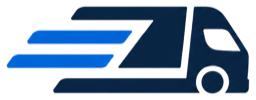
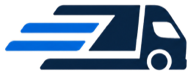
feat: SEO — related articles, FAQ and WebSite markup, redirects, lighter images

diff --git a/blog/kargo-ili-belaya-dostavka/index.html b/blog/kargo-ili-belaya-dostavka/index.html
@@ -129,7 +129,7 @@
       <h2>Коротко</h2>
       <ol><li>Карго и белая доставка различаются оформлением груза. Транспорт и маршрут при этом могут быть одинаковыми.</li><li>При карго груз оформляет перевозчик, и вы не занимаетесь документами.</li><li>При белой доставке товар декларирует сторона сделки с иностранным продавцом, она же вносит таможенные платежи.</li><li>Документы на ввоз нужны для сертификации товара и для вычета НДС, если у вас есть на него право. Их могут попросить и покупатели.</li><li>У FBL Group сроки для обоих форматов одинаковые, поэтому выбирать стоит по документам.</li></ol>
       <p>Чтобы подобрать формат для вашего груза, <a href="/contacts/">оставьте заявку</a>.</p>
-      <p>*Статья носит информационный характер и не является юридической или налоговой консультацией. Порядок оформления и платежи для конкретного товара уточняйте у таможенного брокера и бухгалтера.*</p>
+      <p><em>Статья носит информационный характер и не является юридической или налоговой консультацией. Порядок оформления и платежи для конкретного товара уточняйте у таможенного брокера и бухгалтера.</em></p>
 
       <!-- partial:services -->
 <section class="svc-links" aria-labelledby="svc-links-title">
@@ -142,6 +142,17 @@
         </ul>
       </section>
 <!-- /partial:services -->
+
+<!-- related:start -->
+<section class="svc-links rel-links" aria-labelledby="rel-links-title">
+        <h2 id="rel-links-title">Читайте также</h2>
+        <ul>
+          <li><a href="../sposob-dostavki-iz-kitaya/">Авиа, авто, ж/д или море: как выбрать способ доставки из Китая</a></li>
+          <li><a href="../pochemu-zaderzhivaetsya-gruz-iz-kitaya/">Почему груз из Китая задерживается и как не потерять сроки</a></li>
+          <li><a href="../bayer-posrednik-agent-v-kitae/">Байер, посредник или агент в Китае: чем отличаются и как выбрать</a></li>
+        </ul>
+      </section>
+<!-- related:end -->
 
       <section class="sources" aria-labelledby="sources-title">
         <h2 id="sources-title">Источники</h2>
@@ -226,7 +237,7 @@
   <h3 class="sent__t">Заявка готова</h3>
   <p class="sent__d">Выберите мессенджер и отправьте менеджеру готовый текст заявки.</p>
   <div class="sent__act">
-    <a class="btn btn--primary btn--lg" data-send-wa target="_blank" rel="noopener"><svg aria-hidden="true"><use href="#i-wa"/></svg>Отправить в WhatsApp</a>
+    <a class="btn btn--primary btn--lg" href="https://wa.me/79183083313" data-send-wa target="_blank" rel="noopener"><svg aria-hidden="true"><use href="#i-wa"/></svg>Отправить в WhatsApp</a>
     <button class="btn btn--line btn--lg" type="button" data-send-tg><svg aria-hidden="true"><use href="#i-tg"/></svg>Отправить в Telegram</button>
   </div>
   <div class="sent__copy" data-copy-box hidden>

diff --git a/blog/proizvodstvo-pod-svoim-brendom/index.html b/blog/proizvodstvo-pod-svoim-brendom/index.html
@@ -145,7 +145,7 @@
       <h2>Коротко</h2>
       <ol><li>ODM - готовый товар фабрики под вашим брендом, быстрее и дешевле на старте. OEM - ваш собственный продукт, дольше и дороже.</li><li>Опишите товар подробно: материалы, размеры, логотип, упаковку, объём и срок.</li><li>Утвердите эталонный образец, подпишите и опечатайте его. С ним сравнивают партию.</li><li>Подайте заявку на товарный знак в Китае до запуска производства, в нужных классах и подклассах.</li><li>Подпишите с выбранной фабрикой NNN-соглашение до того, как передадите ей детали продукта.</li></ol>
       <p>Чтобы обсудить производство вашего товара, <a href="/contacts/">оставьте заявку</a>.</p>
-      <p>*Статья носит информационный характер и не является юридической консультацией. Регистрацию товарного знака и договоры с фабрикой обсудите с юристом, который работает с Китаем.*</p>
+      <p><em>Статья носит информационный характер и не является юридической консультацией. Регистрацию товарного знака и договоры с фабрикой обсудите с юристом, который работает с Китаем.</em></p>
 
       <!-- partial:services -->
 <section class="svc-links" aria-labelledby="svc-links-title">
@@ -158,6 +158,17 @@
         </ul>
       </section>
 <!-- /partial:services -->
+
+<!-- related:start -->
+<section class="svc-links rel-links" aria-labelledby="rel-links-title">
+        <h2 id="rel-links-title">Читайте также</h2>
+        <ul>
+          <li><a href="../proverka-kachestva-tovara-v-kitae/">Проверка качества товара в Китае: как устроена инспекция перед отгрузкой</a></li>
+          <li><a href="../bayer-posrednik-agent-v-kitae/">Байер, посредник или агент в Китае: чем отличаются и как выбрать</a></li>
+          <li><a href="../sposob-dostavki-iz-kitaya/">Авиа, авто, ж/д или море: как выбрать способ доставки из Китая</a></li>
+        </ul>
+      </section>
+<!-- related:end -->
 
       <section class="sources" aria-labelledby="sources-title">
         <h2 id="sources-title">Источники</h2>
@@ -243,7 +254,7 @@
   <h3 class="sent__t">Заявка готова</h3>
   <p class="sent__d">Выберите мессенджер и отправьте менеджеру готовый текст заявки.</p>
   <div class="sent__act">
-    <a class="btn btn--primary btn--lg" data-send-wa target="_blank" rel="noopener"><svg aria-hidden="true"><use href="#i-wa"/></svg>Отправить в WhatsApp</a>
+    <a class="btn btn--primary btn--lg" href="https://wa.me/79183083313" data-send-wa target="_blank" rel="noopener"><svg aria-hidden="true"><use href="#i-wa"/></svg>Отправить в WhatsApp</a>
     <button class="btn btn--line btn--lg" type="button" data-send-tg><svg aria-hidden="true"><use href="#i-tg"/></svg>Отправить в Telegram</button>
   </div>
   <div class="sent__copy" data-copy-box hidden>

diff --git a/blog/proverka-kachestva-tovara-v-kitae/index.html b/blog/proverka-kachestva-tovara-v-kitae/index.html
@@ -139,7 +139,7 @@
       <h2>Короткий чек-лист</h2>
       <ol><li>Утвердить образец до запуска производства.</li><li>Записать в контракт уровень контроля и AQL для каждого класса дефектов.</li><li>Составить список дефектов: критические, значительные, малозначительные.</li><li>Для больших заказов добавить проверку во время производства.</li><li>Назначить проверку перед отгрузкой, когда партия готова и упакована, с запасом времени на переборку.</li><li>Проверить маркировку и упаковку вместе с товаром.</li><li>Не отгружать партию, которая не прошла проверку, до повторной проверки.</li></ol>
       <p>Чтобы проверить вашу партию до отгрузки, <a href="/contacts/">оставьте заявку</a>.</p>
-      <p>*Статья носит информационный характер и не является юридической консультацией. Требования к приёмке вашей партии определяет ваш контракт с поставщиком.*</p>
+      <p><em>Статья носит информационный характер и не является юридической консультацией. Требования к приёмке вашей партии определяет ваш контракт с поставщиком.</em></p>
 
       <!-- partial:services -->
 <section class="svc-links" aria-labelledby="svc-links-title">
@@ -152,6 +152,17 @@
         </ul>
       </section>
 <!-- /partial:services -->
+
+<!-- related:start -->
+<section class="svc-links rel-links" aria-labelledby="rel-links-title">
+        <h2 id="rel-links-title">Читайте также</h2>
+        <ul>
+          <li><a href="../proizvodstvo-pod-svoim-brendom/">Производство в Китае под своим брендом: ODM или OEM, образец и защита бренда</a></li>
+          <li><a href="../bayer-posrednik-agent-v-kitae/">Байер, посредник или агент в Китае: чем отличаются и как выбрать</a></li>
+          <li><a href="../pochemu-zaderzhivaetsya-gruz-iz-kitaya/">Почему груз из Китая задерживается и как не потерять сроки</a></li>
+        </ul>
+      </section>
+<!-- related:end -->
 
       <section class="sources" aria-labelledby="sources-title">
         <h2 id="sources-title">Источники</h2>
@@ -236,7 +247,7 @@
   <h3 class="sent__t">Заявка готова</h3>
   <p class="sent__d">Выберите мессенджер и отправьте менеджеру готовый текст заявки.</p>
   <div class="sent__act">
-    <a class="btn btn--primary btn--lg" data-send-wa target="_blank" rel="noopener"><svg aria-hidden="true"><use href="#i-wa"/></svg>Отправить в WhatsApp</a>
+    <a class="btn btn--primary btn--lg" href="https://wa.me/79183083313" data-send-wa target="_blank" rel="noopener"><svg aria-hidden="true"><use href="#i-wa"/></svg>Отправить в WhatsApp</a>
     <button class="btn btn--line btn--lg" type="button" data-send-tg><svg aria-hidden="true"><use href="#i-tg"/></svg>Отправить в Telegram</button>
   </div>
   <div class="sent__copy" data-copy-box hidden>

diff --git a/blog/bayer-posrednik-agent-v-kitae/index.html b/blog/bayer-posrednik-agent-v-kitae/index.html
@@ -132,7 +132,7 @@
       <h2>Коротко</h2>
       <ol><li>Байер - разговорное слово. Смотрите на модель: агент на комиссии, торговая компания или сервисный агент.</li><li>Спросите, как и кто платит посреднику, и не берёт ли он деньги у фабрики.</li><li>Узнайте, на чьё имя контракт с фабрикой и по какому праву он заключён, и запишите это в договор с посредником.</li><li>Партия меньше минимального заказа фабрики - это к торговой компании; если впереди крупные заказы - к сервисному агенту.</li><li>Если нужны ещё склад, упаковка и доставка, выбирайте агента полного цикла.</li></ol>
       <p>Чтобы обсудить закупку, контроль и доставку вашего товара, <a href="/contacts/">оставьте заявку</a>.</p>
-      <p>*Статья носит информационный характер и не является юридической консультацией. Условия работы с посредником определяет ваш договор с ним.*</p>
+      <p><em>Статья носит информационный характер и не является юридической консультацией. Условия работы с посредником определяет ваш договор с ним.</em></p>
 
       <!-- partial:services -->
 <section class="svc-links" aria-labelledby="svc-links-title">
@@ -145,6 +145,17 @@
         </ul>
       </section>
 <!-- /partial:services -->
+
+<!-- related:start -->
+<section class="svc-links rel-links" aria-labelledby="rel-links-title">
+        <h2 id="rel-links-title">Читайте также</h2>
+        <ul>
+          <li><a href="../proizvodstvo-pod-svoim-brendom/">Производство в Китае под своим брендом: ODM или OEM, образец и защита бренда</a></li>
+          <li><a href="../proverka-kachestva-tovara-v-kitae/">Проверка качества товара в Китае: как устроена инспекция перед отгрузкой</a></li>
+          <li><a href="../kargo-ili-belaya-dostavka/">Карго или белая доставка из Китая: в чём разница и как выбрать</a></li>
+        </ul>
+      </section>
+<!-- related:end -->
 
       <section class="sources" aria-labelledby="sources-title">
         <h2 id="sources-title">Источники</h2>
@@ -230,7 +241,7 @@
   <h3 class="sent__t">Заявка готова</h3>
   <p class="sent__d">Выберите мессенджер и отправьте менеджеру готовый текст заявки.</p>
   <div class="sent__act">
-    <a class="btn btn--primary btn--lg" data-send-wa target="_blank" rel="noopener"><svg aria-hidden="true"><use href="#i-wa"/></svg>Отправить в WhatsApp</a>
+    <a class="btn btn--primary btn--lg" href="https://wa.me/79183083313" data-send-wa target="_blank" rel="noopener"><svg aria-hidden="true"><use href="#i-wa"/></svg>Отправить в WhatsApp</a>
     <button class="btn btn--line btn--lg" type="button" data-send-tg><svg aria-hidden="true"><use href="#i-tg"/></svg>Отправить в Telegram</button>
   </div>
   <div class="sent__copy" data-copy-box hidden>

diff --git a/blog/sposob-dostavki-iz-kitaya/index.html b/blog/sposob-dostavki-iz-kitaya/index.html
@@ -138,7 +138,7 @@
       <h2>Коротко</h2>
       <ol><li>Способ выбирают по сроку, весу и объёму, типу товара и направлению.</li><li>Обычно авиа быстрее и дороже всех, море дешевле на больших объёмах и дольше, а по цене железная дорога посередине.</li><li>В авиа платят за большее из фактического и объёмного веса: длина × ширина × высота в сантиметрах, делённые на 6000.</li><li>Сборный морской груз считают по большему из кубометров и тонн.</li><li>Об аккумуляторах в товаре скажите до расчёта.</li></ol>
       <p>Чтобы рассчитать доставку вашего груза, <a href="/contacts/">оставьте заявку</a>.</p>
-      <p>*Статья носит информационный характер и не является юридической консультацией. Сроки и стоимость конкретной перевозки зависят от груза, маршрута и правил перевозчика.*</p>
+      <p><em>Статья носит информационный характер и не является юридической консультацией. Сроки и стоимость конкретной перевозки зависят от груза, маршрута и правил перевозчика.</em></p>
 
       <!-- partial:services -->
 <section class="svc-links" aria-labelledby="svc-links-title">
@@ -151,6 +151,17 @@
         </ul>
       </section>
 <!-- /partial:services -->
+
+<!-- related:start -->
+<section class="svc-links rel-links" aria-labelledby="rel-links-title">
+        <h2 id="rel-links-title">Читайте также</h2>
+        <ul>
+          <li><a href="../kargo-ili-belaya-dostavka/">Карго или белая доставка из Китая: в чём разница и как выбрать</a></li>
+          <li><a href="../pochemu-zaderzhivaetsya-gruz-iz-kitaya/">Почему груз из Китая задерживается и как не потерять сроки</a></li>
+          <li><a href="../proverka-kachestva-tovara-v-kitae/">Проверка качества товара в Китае: как устроена инспекция перед отгрузкой</a></li>
+        </ul>
+      </section>
+<!-- related:end -->
 
       <section class="sources" aria-labelledby="sources-title">
         <h2 id="sources-title">Источники</h2>
@@ -234,7 +245,7 @@
   <h3 class="sent__t">Заявка готова</h3>
   <p class="sent__d">Выберите мессенджер и отправьте менеджеру готовый текст заявки.</p>
   <div class="sent__act">
-    <a class="btn btn--primary btn--lg" data-send-wa target="_blank" rel="noopener"><svg aria-hidden="true"><use href="#i-wa"/></svg>Отправить в WhatsApp</a>
+    <a class="btn btn--primary btn--lg" href="https://wa.me/79183083313" data-send-wa target="_blank" rel="noopener"><svg aria-hidden="true"><use href="#i-wa"/></svg>Отправить в WhatsApp</a>
     <button class="btn btn--line btn--lg" type="button" data-send-tg><svg aria-hidden="true"><use href="#i-tg"/></svg>Отправить в Telegram</button>
   </div>
   <div class="sent__copy" data-copy-box hidden>

diff --git a/zakupka-v-kitae/index.html b/zakupka-v-kitae/index.html
@@ -27,6 +27,7 @@
 <link rel="preload" href="../assets/fonts/geologica-cyrillic-wght-normal.woff2" as="font" type="font/woff2" crossorigin>
 <link rel="preload" href="../assets/fonts/golos-text-cyrillic-wght-normal.woff2" as="font" type="font/woff2" crossorigin>
 <link rel="stylesheet" href="../css/main.css?v=20261121b">
+<script type="application/ld+json" data-schema="faq">{"@context":"https://schema.org","@type":"FAQPage","mainEntity":[{"@type":"Question","name":"С чем можно прийти?","acceptedAnswer":{"@type":"Answer","text":"С фотографией товара, образцом, ссылкой, техническим заданием, идеей или приблизительными характеристиками."}},{"@type":"Question","name":"Какие товары вы ищете?","acceptedAnswer":{"@type":"Answer","text":"Мы не ограничены одной категорией: потребительские товары, оборудование, продукция для бизнеса, товары под ваш бренд. Примеры есть в каталогах."}},{"@type":"Question","name":"Для кого эта услуга?","acceptedAnswer":{"@type":"Answer","text":"Для продавцов маркетплейсов, оптовиков и магазинов, владельцев брендов и компаний, которые закупают для своего бизнеса."}},{"@type":"Question","name":"А если готового товара нет?","acceptedAnswer":{"@type":"Answer","text":"Организуем производство по образцу, фото или ТЗ, в том числе под ваш бренд."}},{"@type":"Question","name":"Куда отправляете?","acceptedAnswer":{"@type":"Answer","text":"Россия, Казахстан, Кыргызстан, Узбекистан, Европа, США, Канада, Саудовская Аравия, Индонезия. Список не закрытый."}},{"@type":"Question","name":"Можно только склад и упаковку?","acceptedAnswer":{"@type":"Answer","text":"Да. Если поставщик у вас уже есть, подойдёт Fulfillment в Китае."}}]}</script>
 </head>
 <body data-page="zakupka">
 
@@ -245,7 +246,7 @@
   <h3 class="sent__t">Заявка готова</h3>
   <p class="sent__d">Выберите мессенджер и отправьте менеджеру готовый текст заявки.</p>
   <div class="sent__act">
-    <a class="btn btn--primary btn--lg" data-send-wa target="_blank" rel="noopener"><svg aria-hidden="true"><use href="#i-wa"/></svg>Отправить в WhatsApp</a>
+    <a class="btn btn--primary btn--lg" href="https://wa.me/79183083313" data-send-wa target="_blank" rel="noopener"><svg aria-hidden="true"><use href="#i-wa"/></svg>Отправить в WhatsApp</a>
     <button class="btn btn--line btn--lg" type="button" data-send-tg><svg aria-hidden="true"><use href="#i-tg"/></svg>Отправить в Telegram</button>
   </div>
   <div class="sent__copy" data-copy-box hidden>

diff --git a/proizvodstvo-v-kitae/index.html b/proizvodstvo-v-kitae/index.html
@@ -27,6 +27,7 @@
 <link rel="preload" href="../assets/fonts/geologica-cyrillic-wght-normal.woff2" as="font" type="font/woff2" crossorigin>
 <link rel="preload" href="../assets/fonts/golos-text-cyrillic-wght-normal.woff2" as="font" type="font/woff2" crossorigin>
 <link rel="stylesheet" href="../css/main.css?v=20261121b">
+<script type="application/ld+json" data-schema="faq">{"@context":"https://schema.org","@type":"FAQPage","mainEntity":[{"@type":"Question","name":"Какие товары можно произвести?","acceptedAnswer":{"@type":"Answer","text":"Мы не ограничены одной категорией. Например, есть опыт производства одежды: футболки, худи, куртки, пуховики, носки."}},{"@type":"Question","name":"Можно с моим логотипом?","acceptedAnswer":{"@type":"Answer","text":"Да, производим продукцию под бренд клиента."}},{"@type":"Question","name":"Что если нужен товар лучше образца?","acceptedAnswer":{"@type":"Answer","text":"Материал, плотность, конструкцию и упаковку можно изменить. Себестоимость при этом обсуждаем открыто."}},{"@type":"Question","name":"Кто проверяет качество?","acceptedAnswer":{"@type":"Answer","text":"Контролируем производство и проверяем готовый товар до отправки. Как устроена проверка, описано в статье о проверке качества."}},{"@type":"Question","name":"Если товар уже где-то продаётся?","acceptedAnswer":{"@type":"Answer","text":"Тогда быстрее найти и выкупить готовый: смотрите закупку в Китае."}},{"@type":"Question","name":"Упакуете под маркетплейс?","acceptedAnswer":{"@type":"Answer","text":"Да, маркировка, упаковка и комплектация входят в Fulfillment."}}]}</script>
 </head>
 <body data-page="proizvodstvo">
 
@@ -244,7 +245,7 @@
   <h3 class="sent__t">Заявка готова</h3>
   <p class="sent__d">Выберите мессенджер и отправьте менеджеру готовый текст заявки.</p>
   <div class="sent__act">
-    <a class="btn btn--primary btn--lg" data-send-wa target="_blank" rel="noopener"><svg aria-hidden="true"><use href="#i-wa"/></svg>Отправить в WhatsApp</a>
+    <a class="btn btn--primary btn--lg" href="https://wa.me/79183083313" data-send-wa target="_blank" rel="noopener"><svg aria-hidden="true"><use href="#i-wa"/></svg>Отправить в WhatsApp</a>
     <button class="btn btn--line btn--lg" type="button" data-send-tg><svg aria-hidden="true"><use href="#i-tg"/></svg>Отправить в Telegram</button>
   </div>
   <div class="sent__copy" data-copy-box hidden>

diff --git a/dostavka-iz-kitaya/index.html b/dostavka-iz-kitaya/index.html
@@ -27,6 +27,7 @@
 <link rel="preload" href="../assets/fonts/geologica-cyrillic-wght-normal.woff2" as="font" type="font/woff2" crossorigin>
 <link rel="preload" href="../assets/fonts/golos-text-cyrillic-wght-normal.woff2" as="font" type="font/woff2" crossorigin>
 <link rel="stylesheet" href="../css/main.css?v=20261121b">
+<script type="application/ld+json" data-schema="faq">{"@context":"https://schema.org","@type":"FAQPage","mainEntity":[{"@type":"Question","name":"Куда доставляете?","acceptedAnswer":{"@type":"Answer","text":"Россия, Казахстан, Кыргызстан, Узбекистан, Европа, США, Канада, Саудовская Аравия, Индонезия. Список не закрытый."}},{"@type":"Question","name":"Сколько стоит доставка?","acceptedAnswer":{"@type":"Answer","text":"Зависит от веса, объёма, товара, маршрута и формата. Пришлите данные груза в заявке, и мы рассчитаем."}},{"@type":"Question","name":"Можно доставить товар моего поставщика?","acceptedAnswer":{"@type":"Answer","text":"Да. Поставщик отправляет товар на наш склад, дальше мы готовим и отправляем груз. Подробнее в разделе Fulfillment."}},{"@type":"Question","name":"Как отследить груз?","acceptedAnswer":{"@type":"Answer","text":"Введите номер груза на странице отслеживания."}},{"@type":"Question","name":"А если товар ещё не куплен?","acceptedAnswer":{"@type":"Answer","text":"Найдём и выкупим его: смотрите закупку в Китае."}},{"@type":"Question","name":"Проверите товар до отправки?","acceptedAnswer":{"@type":"Answer","text":"Да, на складе или выездом к поставщику: проверка качества."}}]}</script>
 </head>
 <body data-page="dostavka">
 
@@ -273,7 +274,7 @@
   <h3 class="sent__t">Заявка готова</h3>
   <p class="sent__d">Выберите мессенджер и отправьте менеджеру готовый текст заявки.</p>
   <div class="sent__act">
-    <a class="btn btn--primary btn--lg" data-send-wa target="_blank" rel="noopener"><svg aria-hidden="true"><use href="#i-wa"/></svg>Отправить в WhatsApp</a>
+    <a class="btn btn--primary btn--lg" href="https://wa.me/79183083313" data-send-wa target="_blank" rel="noopener"><svg aria-hidden="true"><use href="#i-wa"/></svg>Отправить в WhatsApp</a>
     <button class="btn btn--line btn--lg" type="button" data-send-tg><svg aria-hidden="true"><use href="#i-tg"/></svg>Отправить в Telegram</button>
   </div>
   <div class="sent__copy" data-copy-box hidden>

diff --git a/en/blog/cargo-vs-customs-clearance-china/index.html b/en/blog/cargo-vs-customs-clearance-china/index.html
@@ -127,7 +127,7 @@
       <h2>In short</h2>
       <ol><li>Cargo and full clearance differ in how the goods are cleared. The transport and route can be the same.</li><li>With cargo, the carrier clears the goods and you do not handle the paperwork.</li><li>With full clearance, a party to the deal with the foreign seller declares the goods and pays the customs charges.</li><li>You need import documents for product certification and for a VAT deduction, if you are entitled to one. Buyers may also ask for them.</li><li>At FBL Group transit times are the same for both formats, so choose based on documents.</li></ol>
       <p>To choose a format for your shipment, <a href="/en/contacts/">send us a request</a>.</p>
-      <p>*This article is for general information and is not legal or tax advice. It covers imports into Russia; check the formalities and payments for your product with a customs broker and an accountant.*</p>
+      <p><em>This article is for general information and is not legal or tax advice. It covers imports into Russia; check the formalities and payments for your product with a customs broker and an accountant.</em></p>
 
       <!-- partial:services -->
 <section class="svc-links" aria-labelledby="svc-links-title">
@@ -140,6 +140,17 @@
         </ul>
       </section>
 <!-- /partial:services -->
+
+<!-- related:start -->
+<section class="svc-links rel-links" aria-labelledby="rel-links-title">
+        <h2 id="rel-links-title">Read next</h2>
+        <ul>
+          <li><a href="../best-shipping-method-from-china/">Air, Road, Rail or Sea: How to Choose a Shipping Method from China</a></li>
+          <li><a href="../why-china-shipments-get-delayed/">Why shipments from China get delayed and how to protect your deadlines</a></li>
+          <li><a href="../china-sourcing-agent-vs-buyer/">Sourcing Agent, Buyer or Trading Company in China: Differences and How to Choose</a></li>
+        </ul>
+      </section>
+<!-- related:end -->
 
       <section class="sources" aria-labelledby="sources-title">
         <h2 id="sources-title">Sources</h2>
@@ -225,7 +236,7 @@
   <h3 class="sent__t">Your request is ready</h3>
   <p class="sent__d">Choose a messenger and send the prepared text to our manager.</p>
   <div class="sent__act">
-    <a class="btn btn--primary btn--lg" data-send-wa target="_blank" rel="noopener"><svg aria-hidden="true"><use href="#i-wa"/></svg>Send via WhatsApp</a>
+    <a class="btn btn--primary btn--lg" href="https://wa.me/79183083313" data-send-wa target="_blank" rel="noopener"><svg aria-hidden="true"><use href="#i-wa"/></svg>Send via WhatsApp</a>
     <button class="btn btn--line btn--lg" type="button" data-send-tg><svg aria-hidden="true"><use href="#i-tg"/></svg>Send via Telegram</button>
   </div>
   <div class="sent__copy" data-copy-box hidden>

diff --git a/inspekciya-tovara-v-kitae/index.html b/inspekciya-tovara-v-kitae/index.html
@@ -27,6 +27,7 @@
 <link rel="preload" href="../assets/fonts/geologica-cyrillic-wght-normal.woff2" as="font" type="font/woff2" crossorigin>
 <link rel="preload" href="../assets/fonts/golos-text-cyrillic-wght-normal.woff2" as="font" type="font/woff2" crossorigin>
 <link rel="stylesheet" href="../css/main.css?v=20261121b">
+<script type="application/ld+json" data-schema="faq">{"@context":"https://schema.org","@type":"FAQPage","mainEntity":[{"@type":"Question","name":"Вы выезжаете на фабрику?","acceptedAnswer":{"@type":"Answer","text":"Да, делаем выездные проверки у поставщика и на фабрике, а не только на нашем складе."}},{"@type":"Question","name":"Что будет в отчёте?","acceptedAnswer":{"@type":"Answer","text":"Информация о количестве и качестве товара, фото и видео."}},{"@type":"Question","name":"Зачем проверять до отправки?","acceptedAnswer":{"@type":"Answer","text":"В Китае проблему с партией можно решить с поставщиком. После получения это сложнее."}},{"@type":"Question","name":"Можно проверку и доставку вместе?","acceptedAnswer":{"@type":"Answer","text":"Да. После проверки подготовим и отправим груз: доставка из Китая."}},{"@type":"Question","name":"А если товар делают под заказ?","acceptedAnswer":{"@type":"Answer","text":"Контролируем и производство: производство в Китае."}},{"@type":"Question","name":"Нужны маркировка и упаковка?","acceptedAnswer":{"@type":"Answer","text":"Это входит в Fulfillment."}}]}</script>
 </head>
 <body data-page="inspekciya">
 
@@ -237,7 +238,7 @@
   <h3 class="sent__t">Заявка готова</h3>
   <p class="sent__d">Выберите мессенджер и отправьте менеджеру готовый текст заявки.</p>
   <div class="sent__act">
-    <a class="btn btn--primary btn--lg" data-send-wa target="_blank" rel="noopener"><svg aria-hidden="true"><use href="#i-wa"/></svg>Отправить в WhatsApp</a>
+    <a class="btn btn--primary btn--lg" href="https://wa.me/79183083313" data-send-wa target="_blank" rel="noopener"><svg aria-hidden="true"><use href="#i-wa"/></svg>Отправить в WhatsApp</a>
     <button class="btn btn--line btn--lg" type="button" data-send-tg><svg aria-hidden="true"><use href="#i-tg"/></svg>Отправить в Telegram</button>
   </div>
   <div class="sent__copy" data-copy-box hidden>

diff --git a/en/blog/china-sourcing-agent-vs-buyer/index.html b/en/blog/china-sourcing-agent-vs-buyer/index.html
@@ -129,7 +129,7 @@
       <h2>In short</h2>
       <ol><li>"Buyer" is a loose label. Look at the model: commission agent, trading company or service agent.</li><li>Ask how the intermediary gets paid and by whom, and whether they take money from the factory.</li><li>Find out whose name the factory contract is in and which law governs it, and write it into your agreement.</li><li>An order below the factory's MOQ points to a trading company; if you expect large orders, look at a service agent.</li><li>If you also need warehousing, packing and shipping, choose a full-cycle agent.</li></ol>
       <p>To discuss purchasing, quality control and shipping for your product, <a href="/en/contacts/">send us a request</a>.</p>
-      <p>*This article is for information only and is not legal advice. The terms of working with an intermediary are set by your agreement with them.*</p>
+      <p><em>This article is for information only and is not legal advice. The terms of working with an intermediary are set by your agreement with them.</em></p>
 
       <!-- partial:services -->
 <section class="svc-links" aria-labelledby="svc-links-title">
@@ -142,6 +142,17 @@
         </ul>
       </section>
 <!-- /partial:services -->
+
+<!-- related:start -->
+<section class="svc-links rel-links" aria-labelledby="rel-links-title">
+        <h2 id="rel-links-title">Read next</h2>
+        <ul>
+          <li><a href="../private-label-manufacturing-china/">Manufacturing in China Under Your Own Brand: ODM or OEM, Samples and Brand Protection</a></li>
+          <li><a href="../pre-shipment-inspection-china/">Quality Inspection in China: How Pre-Shipment Inspection Works</a></li>
+          <li><a href="../cargo-vs-customs-clearance-china/">Cargo or Full Customs Clearance: Two Ways to Import from China into Russia</a></li>
+        </ul>
+      </section>
+<!-- related:end -->
 
       <section class="sources" aria-labelledby="sources-title">
         <h2 id="sources-title">Sources</h2>
@@ -225,7 +236,7 @@
   <h3 class="sent__t">Your request is ready</h3>
   <p class="sent__d">Choose a messenger and send the prepared text to our manager.</p>
   <div class="sent__act">
-    <a class="btn btn--primary btn--lg" data-send-wa target="_blank" rel="noopener"><svg aria-hidden="true"><use href="#i-wa"/></svg>Send via WhatsApp</a>
+    <a class="btn btn--primary btn--lg" href="https://wa.me/79183083313" data-send-wa target="_blank" rel="noopener"><svg aria-hidden="true"><use href="#i-wa"/></svg>Send via WhatsApp</a>
     <button class="btn btn--line btn--lg" type="button" data-send-tg><svg aria-hidden="true"><use href="#i-tg"/></svg>Send via Telegram</button>
   </div>
   <div class="sent__copy" data-copy-box hidden>

diff --git a/en/blog/best-shipping-method-from-china/index.html b/en/blog/best-shipping-method-from-china/index.html
@@ -136,7 +136,7 @@
       <h2>In short</h2>
       <ol><li>Choose based on your deadline, weight and volume, product type and destination.</li><li>Air is usually the fastest and most expensive, sea is cheaper at scale and slower, and rail sits between them on cost.</li><li>Air freight is billed on the higher of actual and volumetric weight: length × width × height in centimetres, divided by 6000.</li><li>LCL sea freight is billed on the larger of cubic metres and metric tons.</li><li>If your product contains batteries, say so before you get a quote.</li></ol>
       <p>To get a quote for your cargo, <a href="/en/contacts/">send us a request</a>.</p>
-      <p>*This article is for general information and is not legal advice. Transit times and costs for any specific shipment depend on the cargo, the route and the carrier's rules.*</p>
+      <p><em>This article is for general information and is not legal advice. Transit times and costs for any specific shipment depend on the cargo, the route and the carrier's rules.</em></p>
 
       <!-- partial:services -->
 <section class="svc-links" aria-labelledby="svc-links-title">
@@ -149,6 +149,17 @@
         </ul>
       </section>
 <!-- /partial:services -->
+
+<!-- related:start -->
+<section class="svc-links rel-links" aria-labelledby="rel-links-title">
+        <h2 id="rel-links-title">Read next</h2>
+        <ul>
+          <li><a href="../cargo-vs-customs-clearance-china/">Cargo or Full Customs Clearance: Two Ways to Import from China into Russia</a></li>
+          <li><a href="../why-china-shipments-get-delayed/">Why shipments from China get delayed and how to protect your deadlines</a></li>
+          <li><a href="../pre-shipment-inspection-china/">Quality Inspection in China: How Pre-Shipment Inspection Works</a></li>
+        </ul>
+      </section>
+<!-- related:end -->
 
       <section class="sources" aria-labelledby="sources-title">
         <h2 id="sources-title">Sources</h2>
@@ -233,7 +244,7 @@
   <h3 class="sent__t">Your request is ready</h3>
   <p class="sent__d">Choose a messenger and send the prepared text to our manager.</p>
   <div class="sent__act">
-    <a class="btn btn--primary btn--lg" data-send-wa target="_blank" rel="noopener"><svg aria-hidden="true"><use href="#i-wa"/></svg>Send via WhatsApp</a>
+    <a class="btn btn--primary btn--lg" href="https://wa.me/79183083313" data-send-wa target="_blank" rel="noopener"><svg aria-hidden="true"><use href="#i-wa"/></svg>Send via WhatsApp</a>
     <button class="btn btn--line btn--lg" type="button" data-send-tg><svg aria-hidden="true"><use href="#i-tg"/></svg>Send via Telegram</button>
   </div>
   <div class="sent__copy" data-copy-box hidden>
